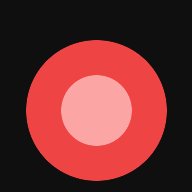
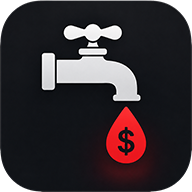
up

diff --git a/sw.js b/sw.js
@@ -1,4 +1,4 @@
-const CACHE_NAME = 'leakd-v100';
+const CACHE_NAME = 'leakd-v101';
 const ASSETS = [
   './',
   'index.html',